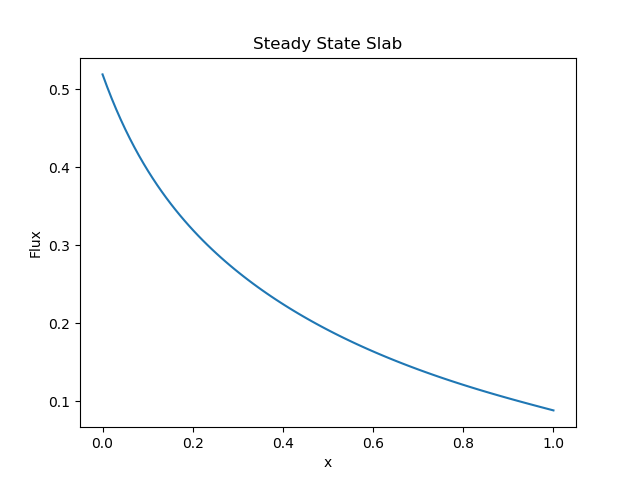
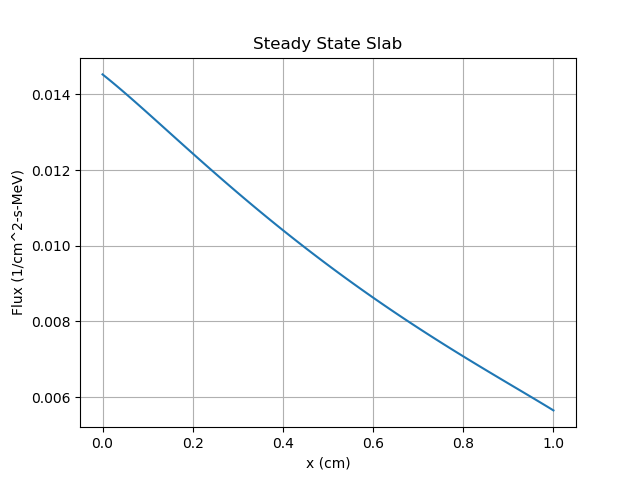
Updates to documentation, work done on unstructured calculations, remaining work in discretizing the unstructured cells

diff --git a/src_py/plot.py b/src_py/plot.py
@@ -21,9 +21,10 @@ def main():
                 flux = np.append(flux,
                                  float(re.match(pattern, line).group(2)))
     plt.plot(x_values, flux)
+    plt.grid(which='major', axis='both')
     plt.title("Steady State Slab")
-    plt.xlabel("x")
-    plt.ylabel("Flux")
+    plt.xlabel("x (cm)")
+    plt.ylabel("Flux (1/cm^2-s-MeV)")
     plt.savefig(f"./plots/{plotname}")
     print(f"Plot saved as {plotname}")
 
